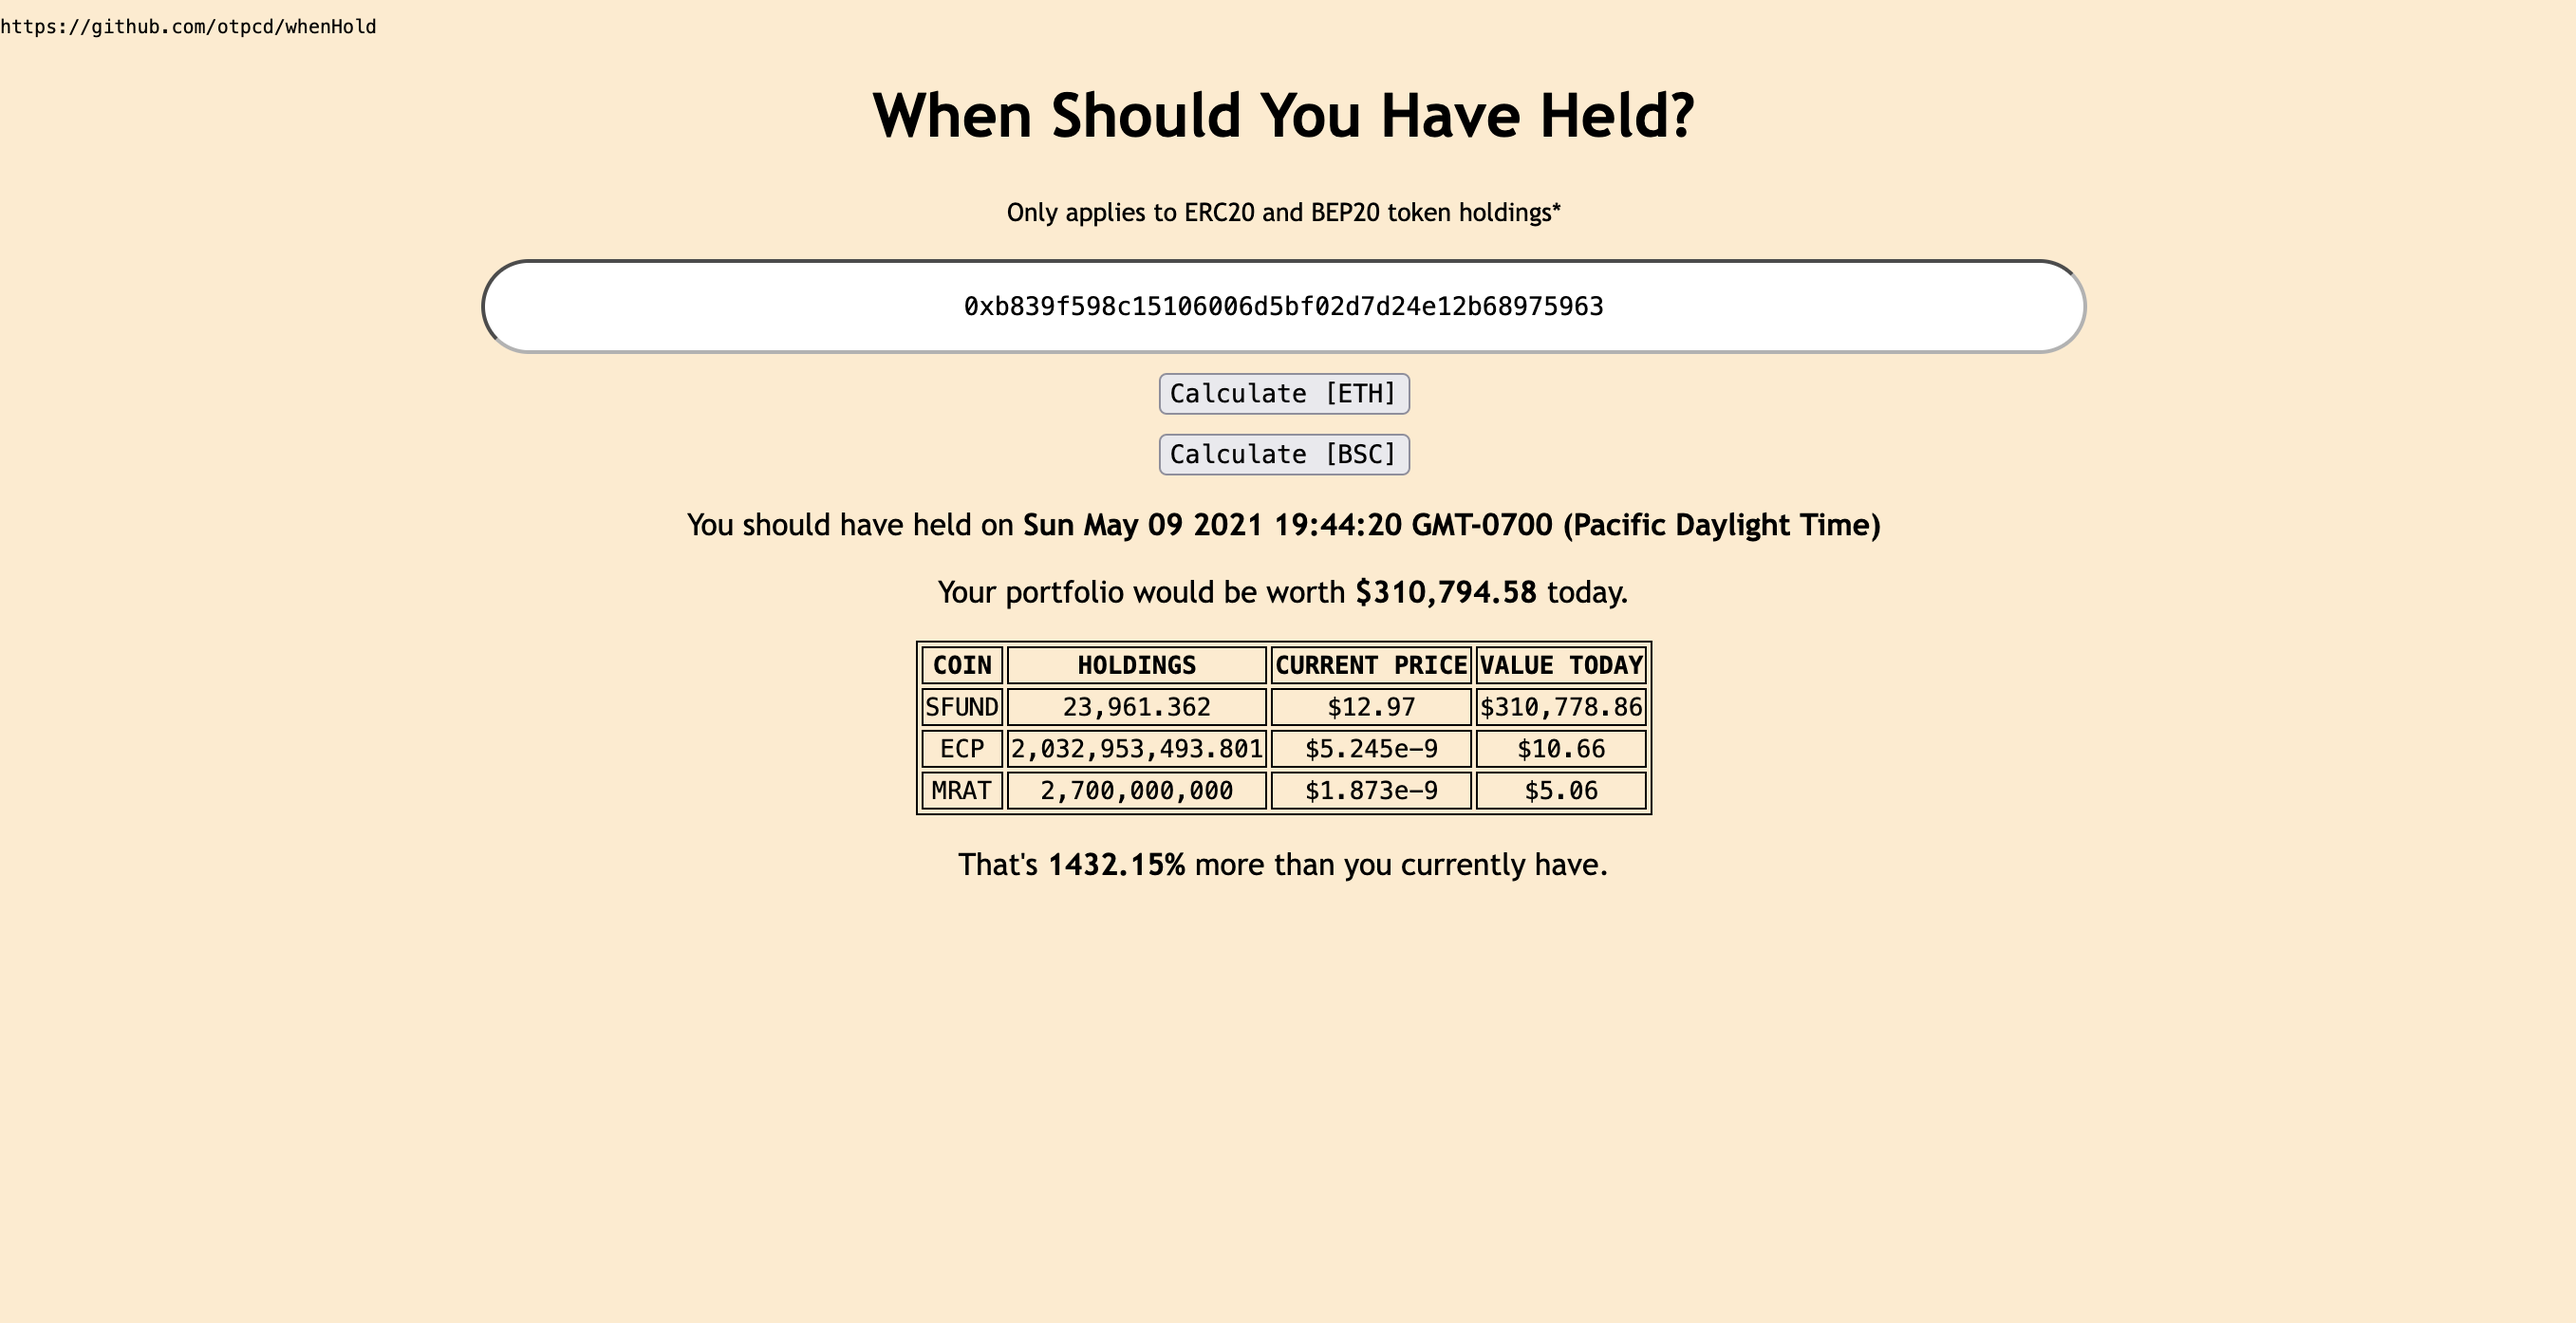
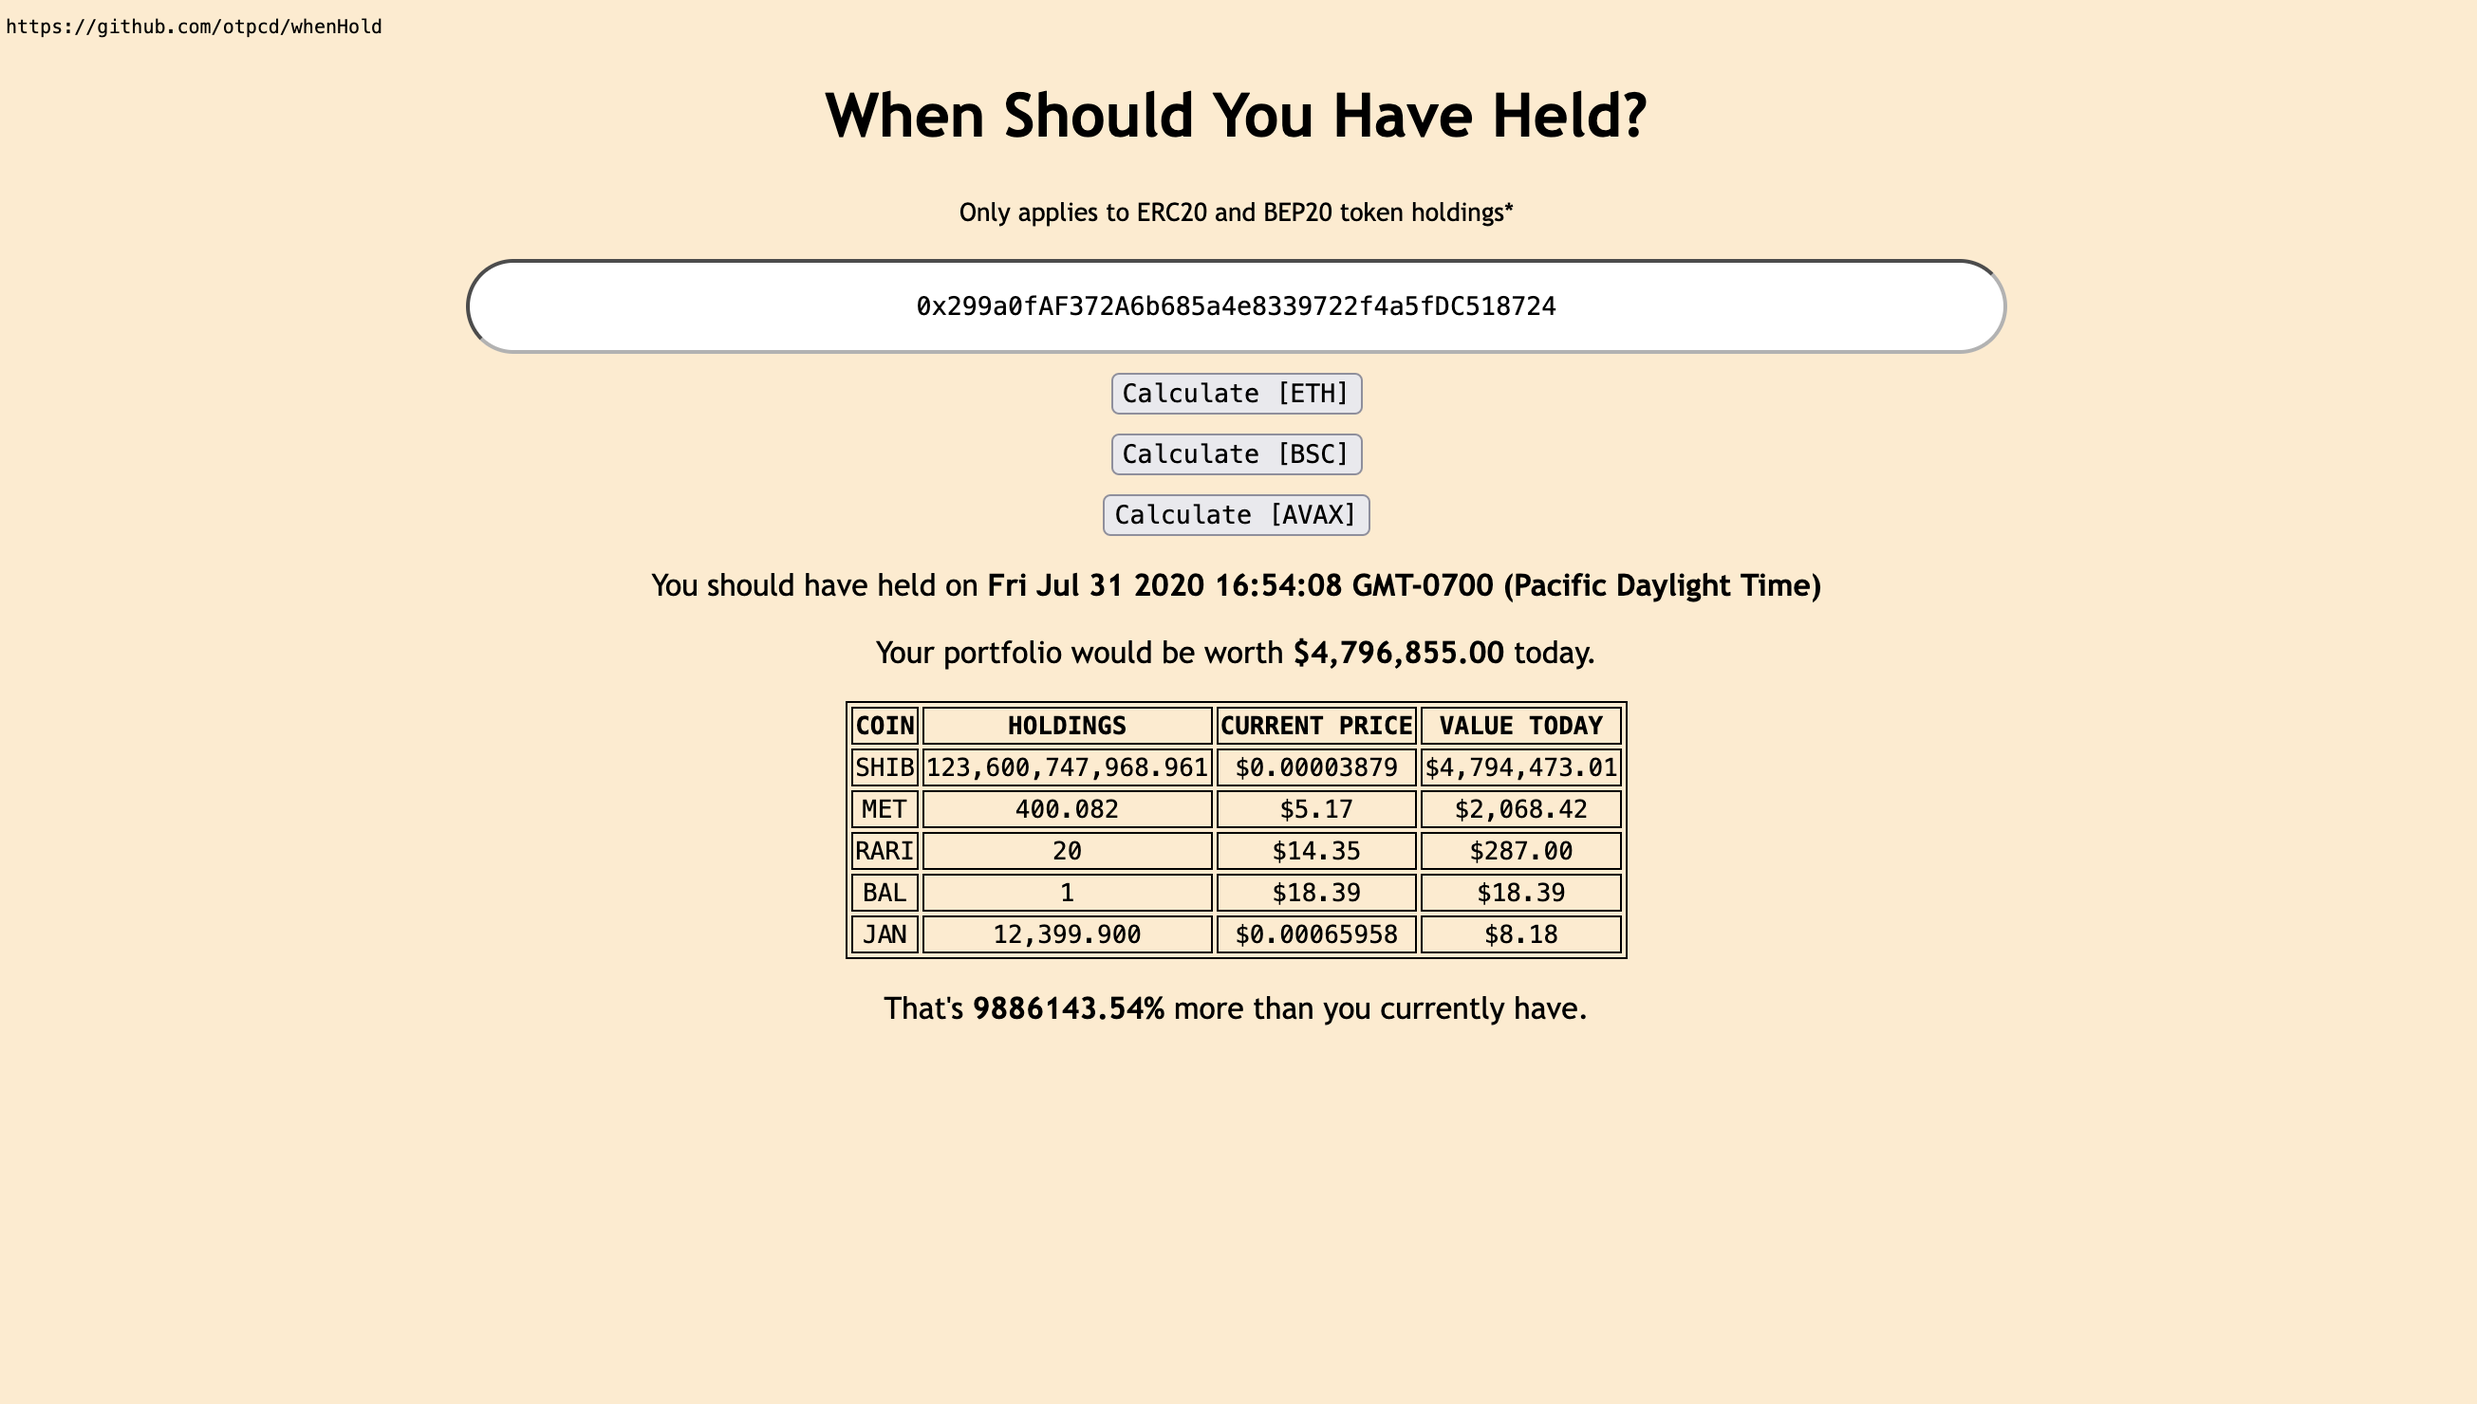
Changed README and img

Changed region(s): [[0.1862, 0.0617, 0.8069, 0.6786], [0.3414, 0.7095, 0.6517, 0.7403], [0.0, 0.0, 0.1552, 0.0308]]

diff --git a/README.md b/README.md
@@ -2,12 +2,12 @@
 
 Try it out: https://otpcd.github.io/
 
-Supported chains: ETH, BSC
+Supported chains: ETH, BSC, AVAX C-Chain
 
 ![Homescreen](img.png)
 
-This WebApp takes in an Ethereum or Binance Smart Chain wallet address and analyzes every transaction to determine at which point, if any, would have been a better time to stop trading based on a comparison between the portfolio value now and the hypothetical portfolio value at every transaction.
+This WebApp takes in an ETH/BSC/AVAX C-Chain address and analyzes every transaction to determine at which point, if any, would have been a better time to stop trading based on a comparison between the portfolio value now and the hypothetical portfolio value at every transaction.
 
-Unfortunately due to the limitations of the Etherscan/BSCScan API regarding Ether/BNB balance at any given point in time (block number), I am unable to include ETH/BNB holdings in this calculation.  The Etherscan/BSCScan API only allows 2 API calls/second for this particular feature, and most wallets would need 100s or 1000s of these calls.
+Unfortunately due to the limitations of the Explorer APIs regarding Ether/BNB/AVAX balance at any given point in time (block number), I am unable to include native token holdings in this calculation.  Etherscan (and hence, all other explorer APIs that have forked Etherscan) only allows 2 API calls/second for this particular feature, and most wallets would need 100s or 1000s of these calls.
 
-Powered by Etherscan, BSCScan and CoinGecko APIs.
+Powered by Etherscan, BSCScan, Snowtrace and CoinGecko APIs.
